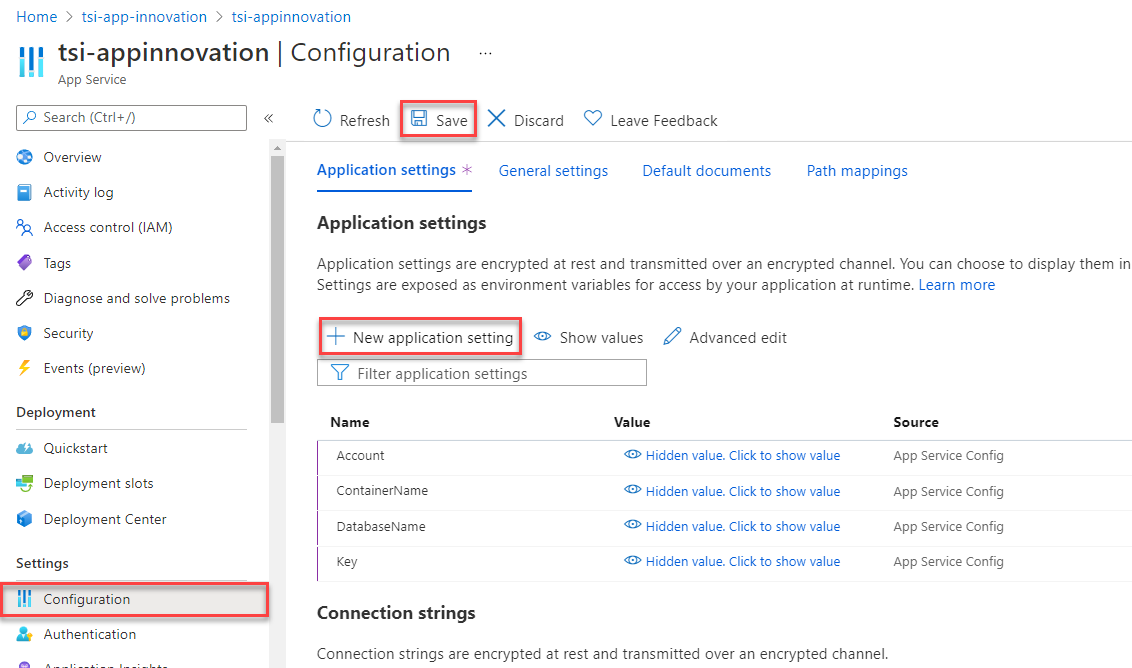
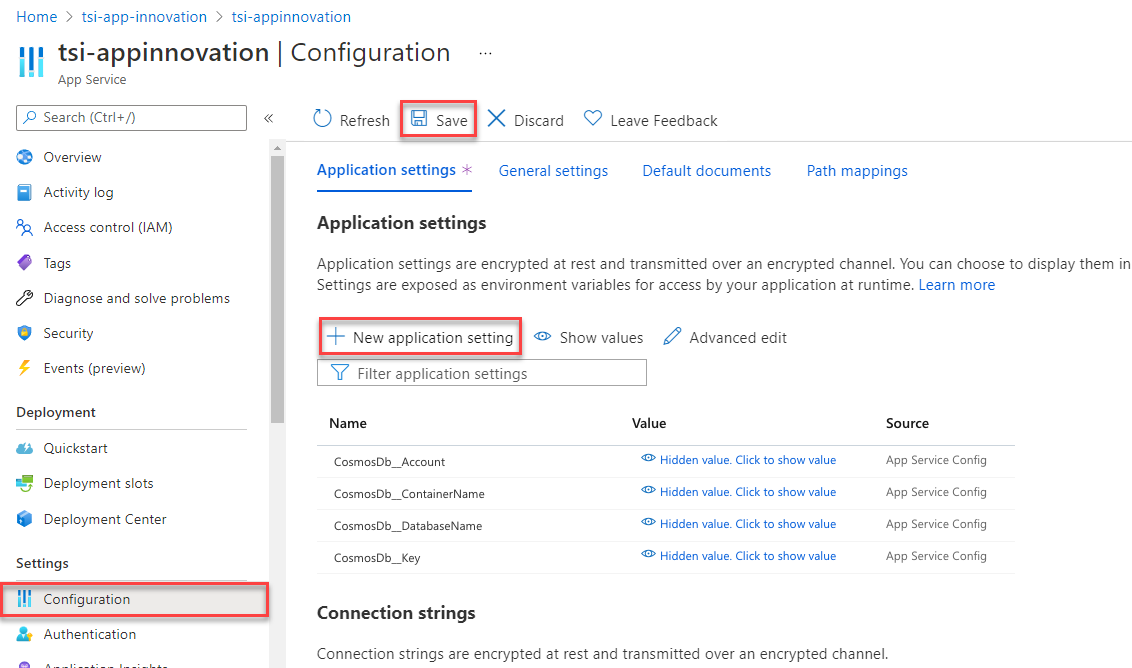
QA Pass (#1)

diff --git a/Hands-On Lab.md b/Hands-On Lab.md
@@ -2,7 +2,7 @@
 
 <h2>Hands-on lab</h2>
 
-October 2021
+September 2022
 
 **Table of contents**
 
@@ -30,7 +30,7 @@ October 2021
 
 ## Abstract and learning objectives
 
-In this hands-on-lab, you will build a proof of concept for an Application Innovation solution, combining several Azure services and technologies together to solve a customer problem.  In this lab, you will deploy a .NET 5 Web API application to App Services and perform continuous integration and continuous deployment with GitHub Actions.  Then, you will use the API Management service to "protect" Web API and allow for centralized API versioning and management.  Then, you will create a custom Power Apps connector from API and use it in a Power Apps application.
+In this hands-on-lab, you will build a proof of concept for an Application Innovation solution, combining several Azure services and technologies together to solve a customer problem.  In this lab, you will deploy a .NET 6 Web API application to App Services and perform continuous integration and continuous deployment with GitHub Actions.  Then, you will use the API Management service to "protect" Web API and allow for centralized API versioning and management.  ~~TODO Then, you will create a custom Power Apps connector from API and use it in a Power Apps application.~~
 
 ## Overview
 
@@ -38,7 +38,7 @@ In this hands-on-lab, you will build a proof of concept for an Application Innov
 
 Contoso already uses a variety of Microsoft Azure services, taking advantage of both Infrastructure-as-a-Service and Platform-as-a-Service offerings.  Their software engineers and infrastructure team have a good working familiarity with Azure services and wish to use this opportunity to develop an innovative product which can serve as a guide for future modernization of their existing applications and infrastructure.
 
-The Engineering team at Contoso Healthcare is looking for a modern, innovative application platform, but this is not the only key group which will be involved.  Business Analysts will be responsible for creating the business logic and user experience for most of the Health Checks applications.  These Business Analysts are not software developers, and they would like a low-code or no-code approach to application development without relying on Engineering.  These applications should be able to access API endpoints which the Engineering team plan to build.
+The Engineering team at Contoso Healthcare is looking for a modern, innovative application platform, but this is not the only key group which will be involved.  Business Analysts will be responsible for creating the business logic and user experience for most of the Health Checks applications.  ~~TODO These Business Analysts are not software developers, and they would like a low-code or no-code approach to application development without relying on Engineering.~~  These applications should be able to access API endpoints which the Engineering team plan to build.
 
 Contoso would like to manage one API for accessing the back end of all of these health applications.  In practice, Contoso expects something on the order of 15-20 endpoints to support the breadth of their health check application suite, but for the purposes of a proof of concept, they would like to see two endpoints implemented:  one which submits information on current health status and one which retrieves submissions for the registered user.  The key data points Contoso would like to see in this proof of concept are as follows:
 
@@ -54,11 +54,11 @@ For this proof of concept, Contoso would also like to see a model example of Con
 
 ## Solution architecture
 
-The following diagram provides a high-level overview of the Azure services we will use for implementation.
+The following diagram provides a high-level overview of the Azure services we will use for implementation. **TODO new diagram**
 
 ![High-level architecture, as described below.](media/architecture-diagram.png "High-level architecture")
 
-API Management will allow Contoso Healthcare to centralize and manage information on a variety of API endpoints.  These API endpoints may be implemented using a variety of Azure services, but the one which makes the most intuitive sense is Azure App Services.  The serverless approach to Azure Function apps would fit Contoso's desire to limit dependencies on their operations staff, so it is also a good choice, but the Contoso developers already have experience developing Web API applications and can easily adapt that knowledge to App Services.  API Management also allows developers and business analysts to create Power Apps from the Azure portal, making it easy to consume these exposed API endpoints.
+API Management will allow Contoso Healthcare to centralize and manage information on a variety of API endpoints.  These API endpoints may be implemented using a variety of Azure services, but the one which makes the most intuitive sense is Azure App Services.  The serverless approach to Azure Function apps would fit Contoso's desire to limit dependencies on their operations staff, so it is also a good choice, but the Contoso developers already have experience developing Web API applications and can easily adapt that knowledge to App Services.  ~~TODO API Management also allows developers and business analysts to create Power Apps from the Azure portal, making it easy to consume these exposed API endpoints.~~
 
 To store and retrieve data, the functions will use Cosmos DB for data storage.  This satisfies customer requests for a flexible schema and includes a rich .NET interface.  Furthermore, via Cosmos Link, we can include an automated process to make data available in Azure Synapse Analytics dedicated SQL pools or Spark pools.  This allows Contoso Healthcare data scientists to analyze data across a variety of end users over time without building extensive ELT pipelines or processes.  Because this would be a "phase two" operation, it deserves mention in an architectural diagram but will not be part of the proof of concept.
 
@@ -74,16 +74,14 @@ Azure Front Door is a layer 7 load balancer which includes web application firew
 
     - Trial subscriptions will not work.
 
-2. Power Apps subscription.  In order to use the custom connector we will create from API Management, you will need a Power Apps per app or per user plan.  You may also use the free [Power Apps developer plan](https://powerapps.microsoft.com/en-us/developerplan/).
-
-3. Install [Visual Studio Code](https://code.visualstudio.com/).
+2. Install [Visual Studio Code](https://code.visualstudio.com/).
 
     - Install the [C# for Visual Studio Code extension](https://marketplace.visualstudio.com/items?itemName=ms-dotnettools.csharp).
-    - Install the [Azure App Service for Visual STudio Code extension](https://marketplace.visualstudio.com/items?itemName=ms-azuretools.vscode-azureappservice).
+    - Install the [Azure App Service for Visual Studio Code extension](https://marketplace.visualstudio.com/items?itemName=ms-azuretools.vscode-azureappservice).
 
-4. Install the latest version of [the .NET 5 SDK](https://dotnet.microsoft.com/download/dotnet/5.0).
+3. Install the latest version of [the .NET 6 SDK](https://dotnet.microsoft.com/en-us/download/dotnet/6.0).
 
-5. Install the latest version of the [Postman](https://www.postman.com/) client.
+4. Install the latest version of the [Postman](https://www.postman.com/) client.
 
 ## Before the hands-on lab
 
@@ -97,20 +95,16 @@ Refer to the [Before the hands-on lab setup guide](Before%20the%20Hands-On%20Lab
 
     ![In the Overview, Add Container is selected.](media/azure-cosmos-db-add-container.png 'Add Container')
 
-2. In the **Data Explorer**, select **New Container** to create a new container.
-
-    ![In the Data Explorer tab, New Container is selected.](media/azure-cosmos-db-new-container.png 'New Container')
-
 3. In the **New Container** tab, complete the following:
 
-   | Field                          | Value                                              |
-   | ------------------------------ | ------------------------------------------         |
-   | Database id                    | _select `Create new` and enter `HealthCheckDB`_    |
-   | Share throughput across containers | _select the checkbox_                          |
-   | Throughput                     | _select `Manual`_                                  |
-   | Number of R/Us                 | _enter `400`_                                      |
-   | Container id                   | _`HealthCheck`_                                    |
-   | Partition key                  | _`/id`_                                            |
+   | Field                              | Value                                           |
+   | ---------------------------------- | ----------------------------------------------- |
+   | Database id                        | _select `Create new` and enter `HealthCheckDB`_ |
+   | Share throughput across containers | _select the checkbox_                           |
+   | Throughput                         | _select `Manual`_                               |
+   | Number of R/Us                     | _enter `400`_                                   |
+   | Container id                       | _`HealthCheck`_                                 |
+   | Partition key                      | _`/id`_                                         |
 
    ![The form fields are completed with the previously described settings.](media/azure-create-cosmos-db-healthcheck-container.png 'Create a container for health checks')
 
@@ -187,7 +181,7 @@ Refer to the [Before the hands-on lab setup guide](Before%20the%20Hands-On%20Lab
 
     ![Adding health checks records through Postman.](media/health-checks-add-records.png 'Add records')
 
-9. Use the `GET` verb on the `HealthCheck` endpoint to retrieve an array containing health check records.  
+9. Use the `GET` verb on the `HealthCheck` endpoint to retrieve an array containing health check records.
 
     ![Retrieving health checks records through Postman.](media/health-checks-get-records.png 'Get records')
 
@@ -217,12 +211,12 @@ Refer to the [Before the hands-on lab setup guide](Before%20the%20Hands-On%20Lab
 
 6. Navigate to the **Configuration** option in the **Settings** menu for your App Service and select **+ New application setting**.  Enter the following application settings:
 
-    |Name|Value|
-    |----|-----|
-    |Account| _enter the URL of your Cosmos DB account_ |
-    |Key| _enter the primary key for your Cosmos DB account_ |
-    |DatabaseName| _enter `HealthCheckDB`_ |
-    |ContainerName| _enter `HealthCheck`_ |
+    | Name                    | Value                                              |
+    | ----------------------- | -------------------------------------------------- |
+    | CosmosDb__Account       | _enter the URL of your Cosmos DB account_          |
+    | CosmosDb__Key           | _enter the primary key for your Cosmos DB account_ |
+    | CosmosDb__DatabaseName  | _enter `HealthCheckDB`_                            |
+    | CosmosDb__ContainerName | _enter `HealthCheck`_                              |
 
     Select **Save** to save these application settings.
 
@@ -280,7 +274,7 @@ Because this project uses the `Swashbuckle.AspNetCore` NuGet package, we can bui
 
 ### Task 2:  Connect API Management to the App Service
 
-1. Open the API Management service in your `tsi-win-with-app-platform` resource group.  Navigate to the **APIs** option in the **APIs** menu, choose **+ Add API**, and select **OpenAPI** in the **Create from definition** section.
+1. Open the API Management service in your `taw-win-with-app-platform` resource group.  Navigate to the **APIs** option in the **APIs** menu, choose **+ Add API**, and select **OpenAPI** in the **Create from definition** section.
 
     > **Note:**  There is an option in the **Define a new API** menu for defining an App Service API, and there is a way to connect an App Service directly to API Management, but these two methods will require manual editing of the Swagger file to work.  This method will automatically pick up all available endpoints without adding spurious `TRACE` or `HEAD` verbs.
 
@@ -288,12 +282,12 @@ Because this project uses the `Swashbuckle.AspNetCore` NuGet package, we can bui
 
 2. Create a new API from an OpenAPI specification by entering the following details.  Then select **Create** to generate a new API.
 
-    | Parameter                   | Value                                |
-    | --------------------------- | -------------------------------------|
-    | OpenAPI specification       | Enter the swagger.json URL           |
-    | Display name                | Enter `HealthChecks`                 |
-    | Name                        | Enter `healthchecks`                 |
-    | API URL suffix              | Leave blank                          |
+    | Parameter             | Value                      |
+    | --------------------- | -------------------------- |
+    | OpenAPI specification | Enter the swagger.json URL |
+    | Display name          | Enter `HealthChecks`       |
+    | Name                  | Enter `healthchecks`       |
+    | API URL suffix        | Leave blank                |
 
     ![Create a new API from an OpenAPI specification.](media/apim-create.png 'Create from OpenAPI specification')
 
@@ -331,7 +325,7 @@ For this final exercise, you will need a Power Apps subscription.  This may be a
 
 ### Task 1:  Create a custom Power Apps connector
 
-1. In your App Management service, navigate to the **Power Platform** menu option in the **APIs** menu.  Then, select **Create a connector**.
+1. In your API Management service, navigate to the **Power Platform** menu option in the **APIs** menu.  Then, select **Create a connector**.
 
     ![Create a custom connector from API Management to Power Apps.](media/apim-create-connector.png 'Create a connector')
 

diff --git a/Before the Hands-On Lab.md b/Before the Hands-On Lab.md
@@ -2,7 +2,7 @@
 
 <h2>Before the hands-on lab</h2>
 
-October 2021
+September 2022
 
 **Table of contents**
 
@@ -21,13 +21,11 @@ October 2021
 
     - Trial subscriptions will not work.
 
-2. Power Apps subscription.  In order to use the custom connector we will create from API Management, you will need a Power Apps per app or per user plan.  You may also use the free [Power Apps developer plan](https://powerapps.microsoft.com/en-us/developerplan/).
-
-3. Install [Visual Studio Code](https://code.visualstudio.com/).
+2. Install [Visual Studio Code](https://code.visualstudio.com/).
 
     - Install the [C# for Visual Studio Code extension](https://marketplace.visualstudio.com/items?itemName=ms-dotnettools.csharp).
 
-4. Install the latest version of [the .NET 5 SDK](https://dotnet.microsoft.com/download/dotnet/5.0).
+3. Install the latest version of [the .NET 6 SDK](https://dotnet.microsoft.com/en-us/download/dotnet/6.0).
 
 ## Before the hands-on lab
 
@@ -47,11 +45,11 @@ In this task, you will use the Azure Portal to create a new Azure Resource Group
 
 3. In the left-hand menu, select **Resource Groups**.
 
-4. At the top of the screen select the **+ New** option to add a new resource group.
+4. At the top of the screen select the **+ Create** option to add a new resource group.
 
    ![The Add Resource Group Menu is displayed.](media/add-resource-group-menu.png 'Resource Group Menu')
 
-5. Create a new resource group with the name **tsi-win-with-app-platform**, ensuring that the proper subscription and region nearest you are selected. Once you have chosen a location, select **Review + Create**.
+5. Create a new resource group with the name **taw-win-with-app-platform**, ensuring that the proper subscription and region nearest you are selected. Once you have chosen a location, select **Review + Create**.
 
    ![How to Create a resource group is displayed.](media/create-resource-group.png 'Resource Group')
 
@@ -68,9 +66,9 @@ The below ARM template deploys several Azure resources for the labs, including A
 2. On the **Custom deployment** form fill in the fields described below.
 
    - **Subscription**: Select your desired subscription for the deployment.
-   - **Resource group**: Select the resource group you previously created, `tsi-win-with-app-platform`.
+   - **Resource group**: Select the resource group you previously created, `taw-win-with-app-platform`.
    - **Region**: The region where your Azure resources will be created.  All resources will be created in your resource group's region.
-   - **Unique Suffix**: This unique suffix will be used naming resources that will created as part of your deployment, such as your initials followed by the current date in YYYYMMDD format (ex. `jdh20210615`). Make sure you follow correct Azure [Resource naming](https://docs.microsoft.com/en-us/azure/cloud-adoption-framework/ready/azure-best-practices/naming-and-tagging#resource-naming) conventions.
+   - **Unique Suffix**: This unique suffix will be used naming resources that will created as part of your deployment, such as your initials followed by the current year and month in YYYYMM format (ex. `jdh202106`). Make sure you follow correct Azure [Resource naming](https://docs.microsoft.com/en-us/azure/cloud-adoption-framework/ready/azure-best-practices/naming-and-tagging#resource-naming) conventions.
    - **Publisher Email**:  Enter your e-mail address.  API Management uses this as part of its publisher properties.
    - **Publisher Name**:  Enter your organization's name.  API Management uses this asp art of its publisher properties.
 
